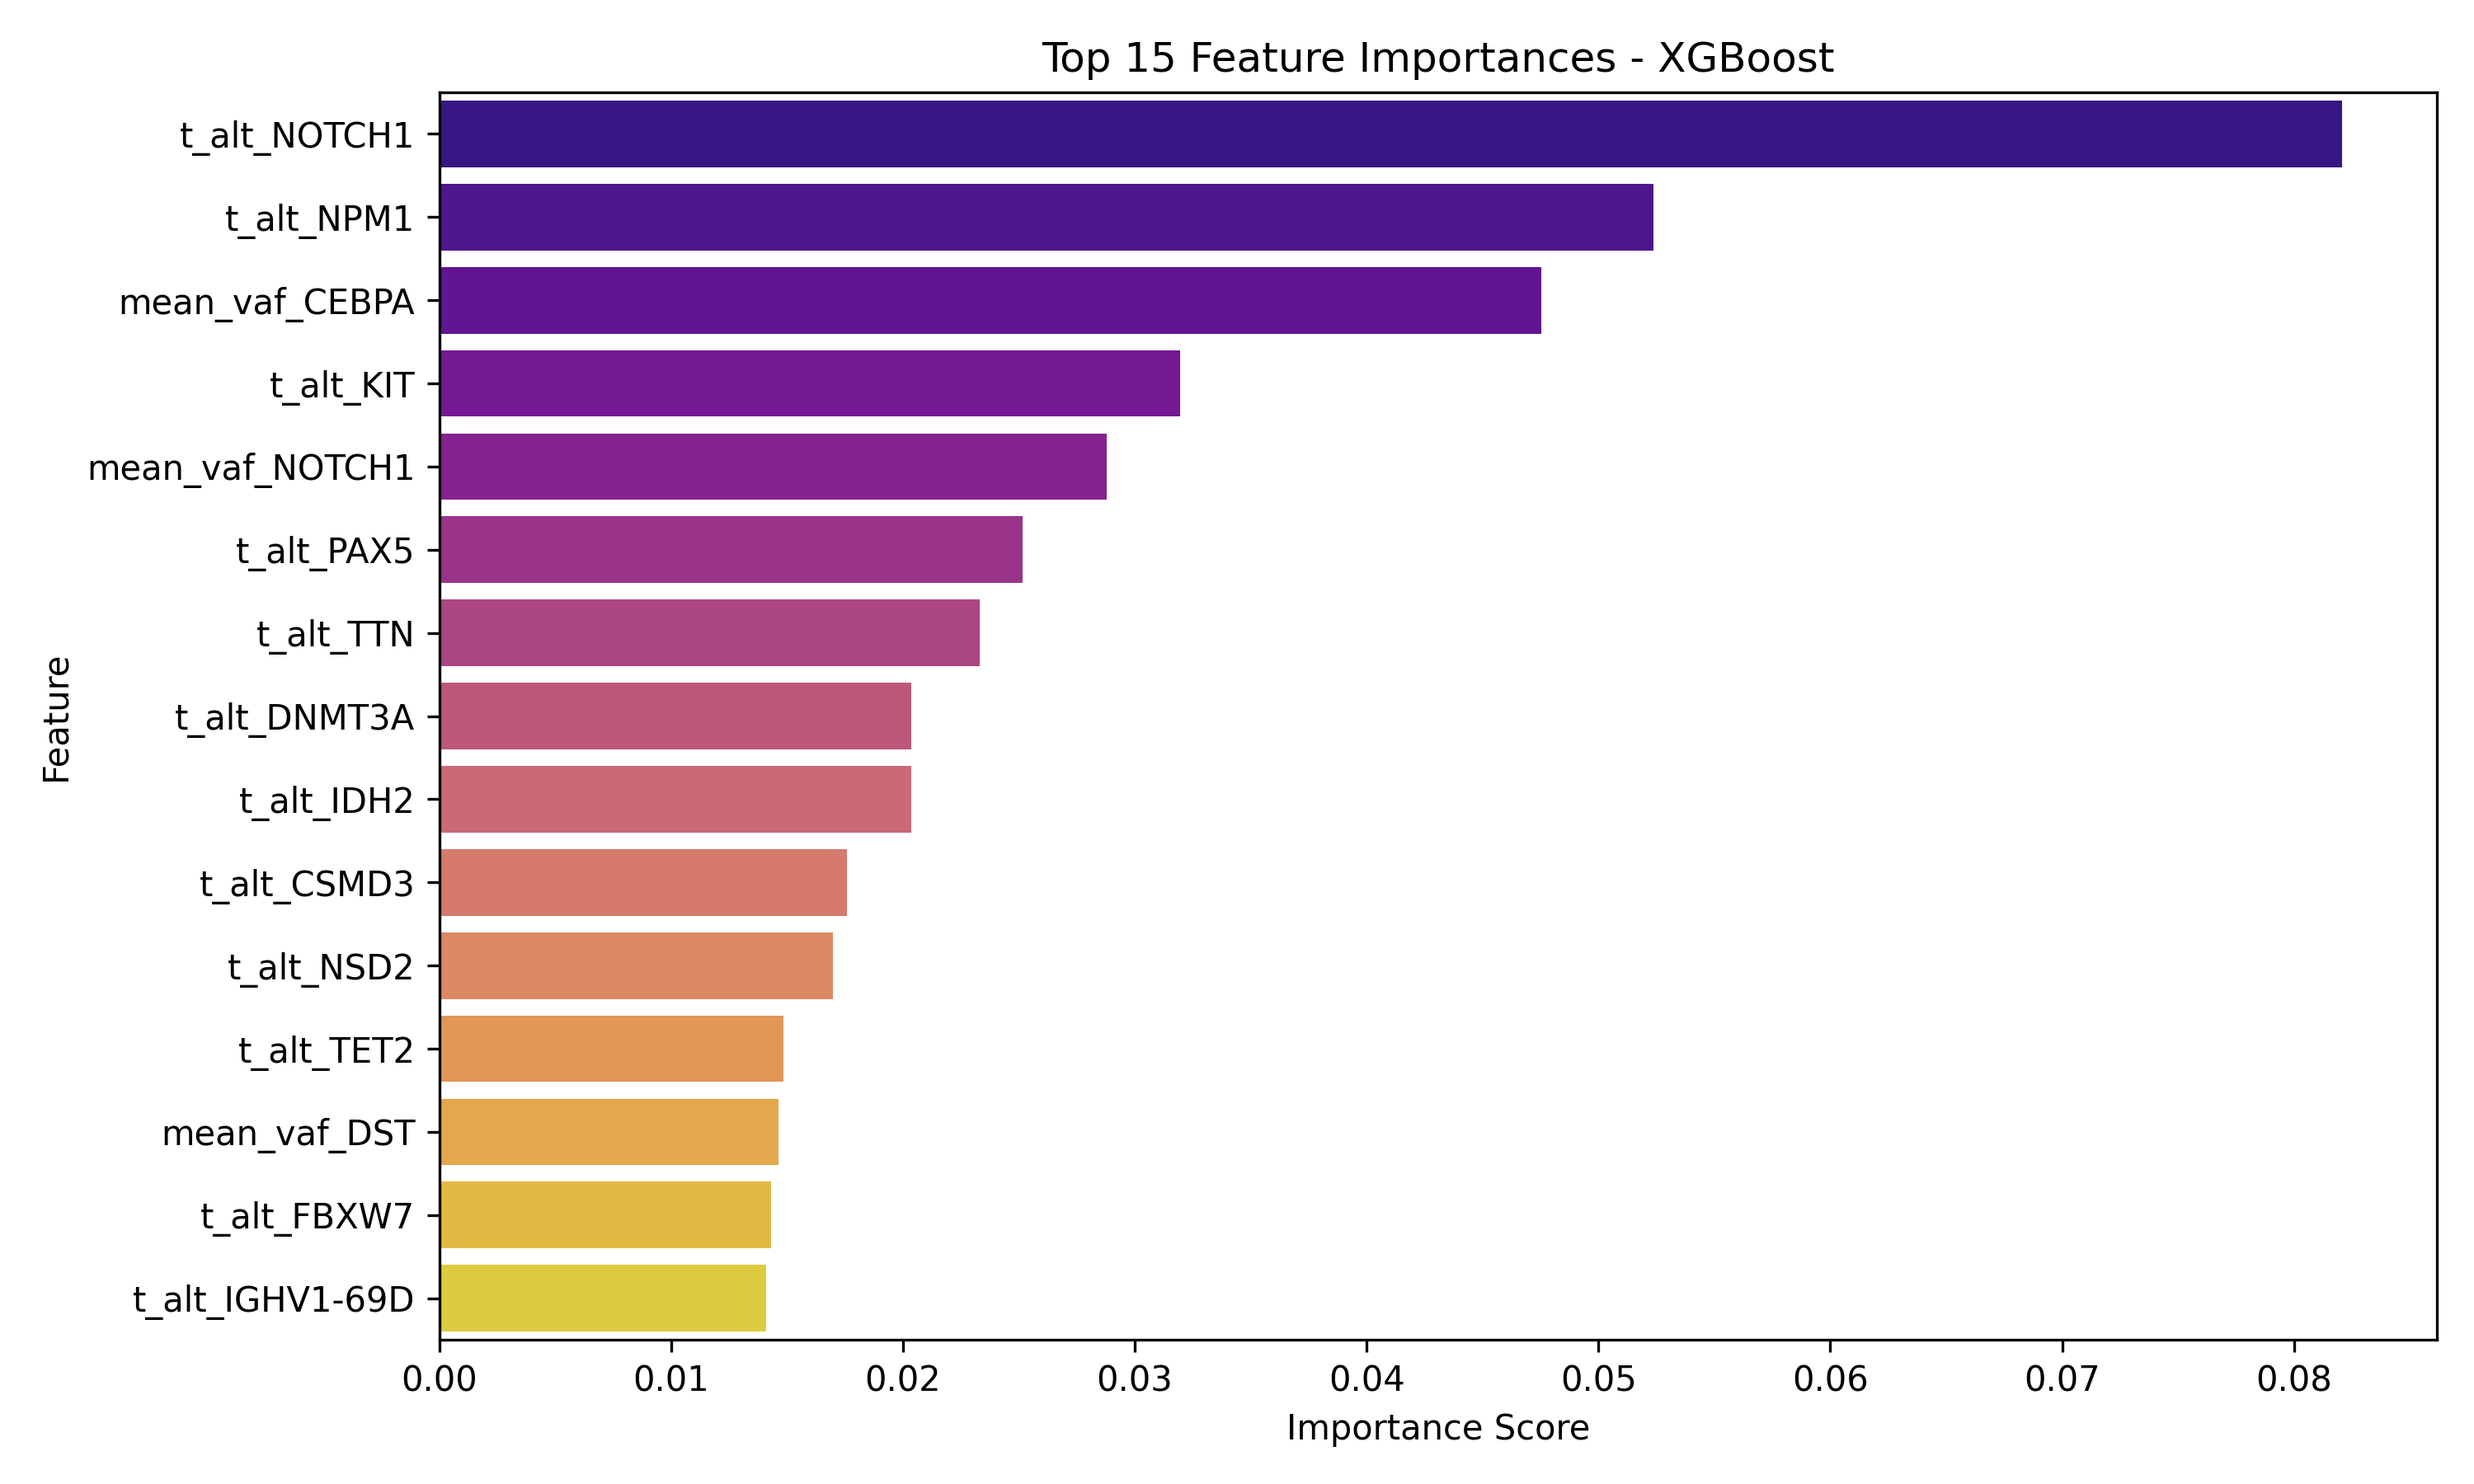
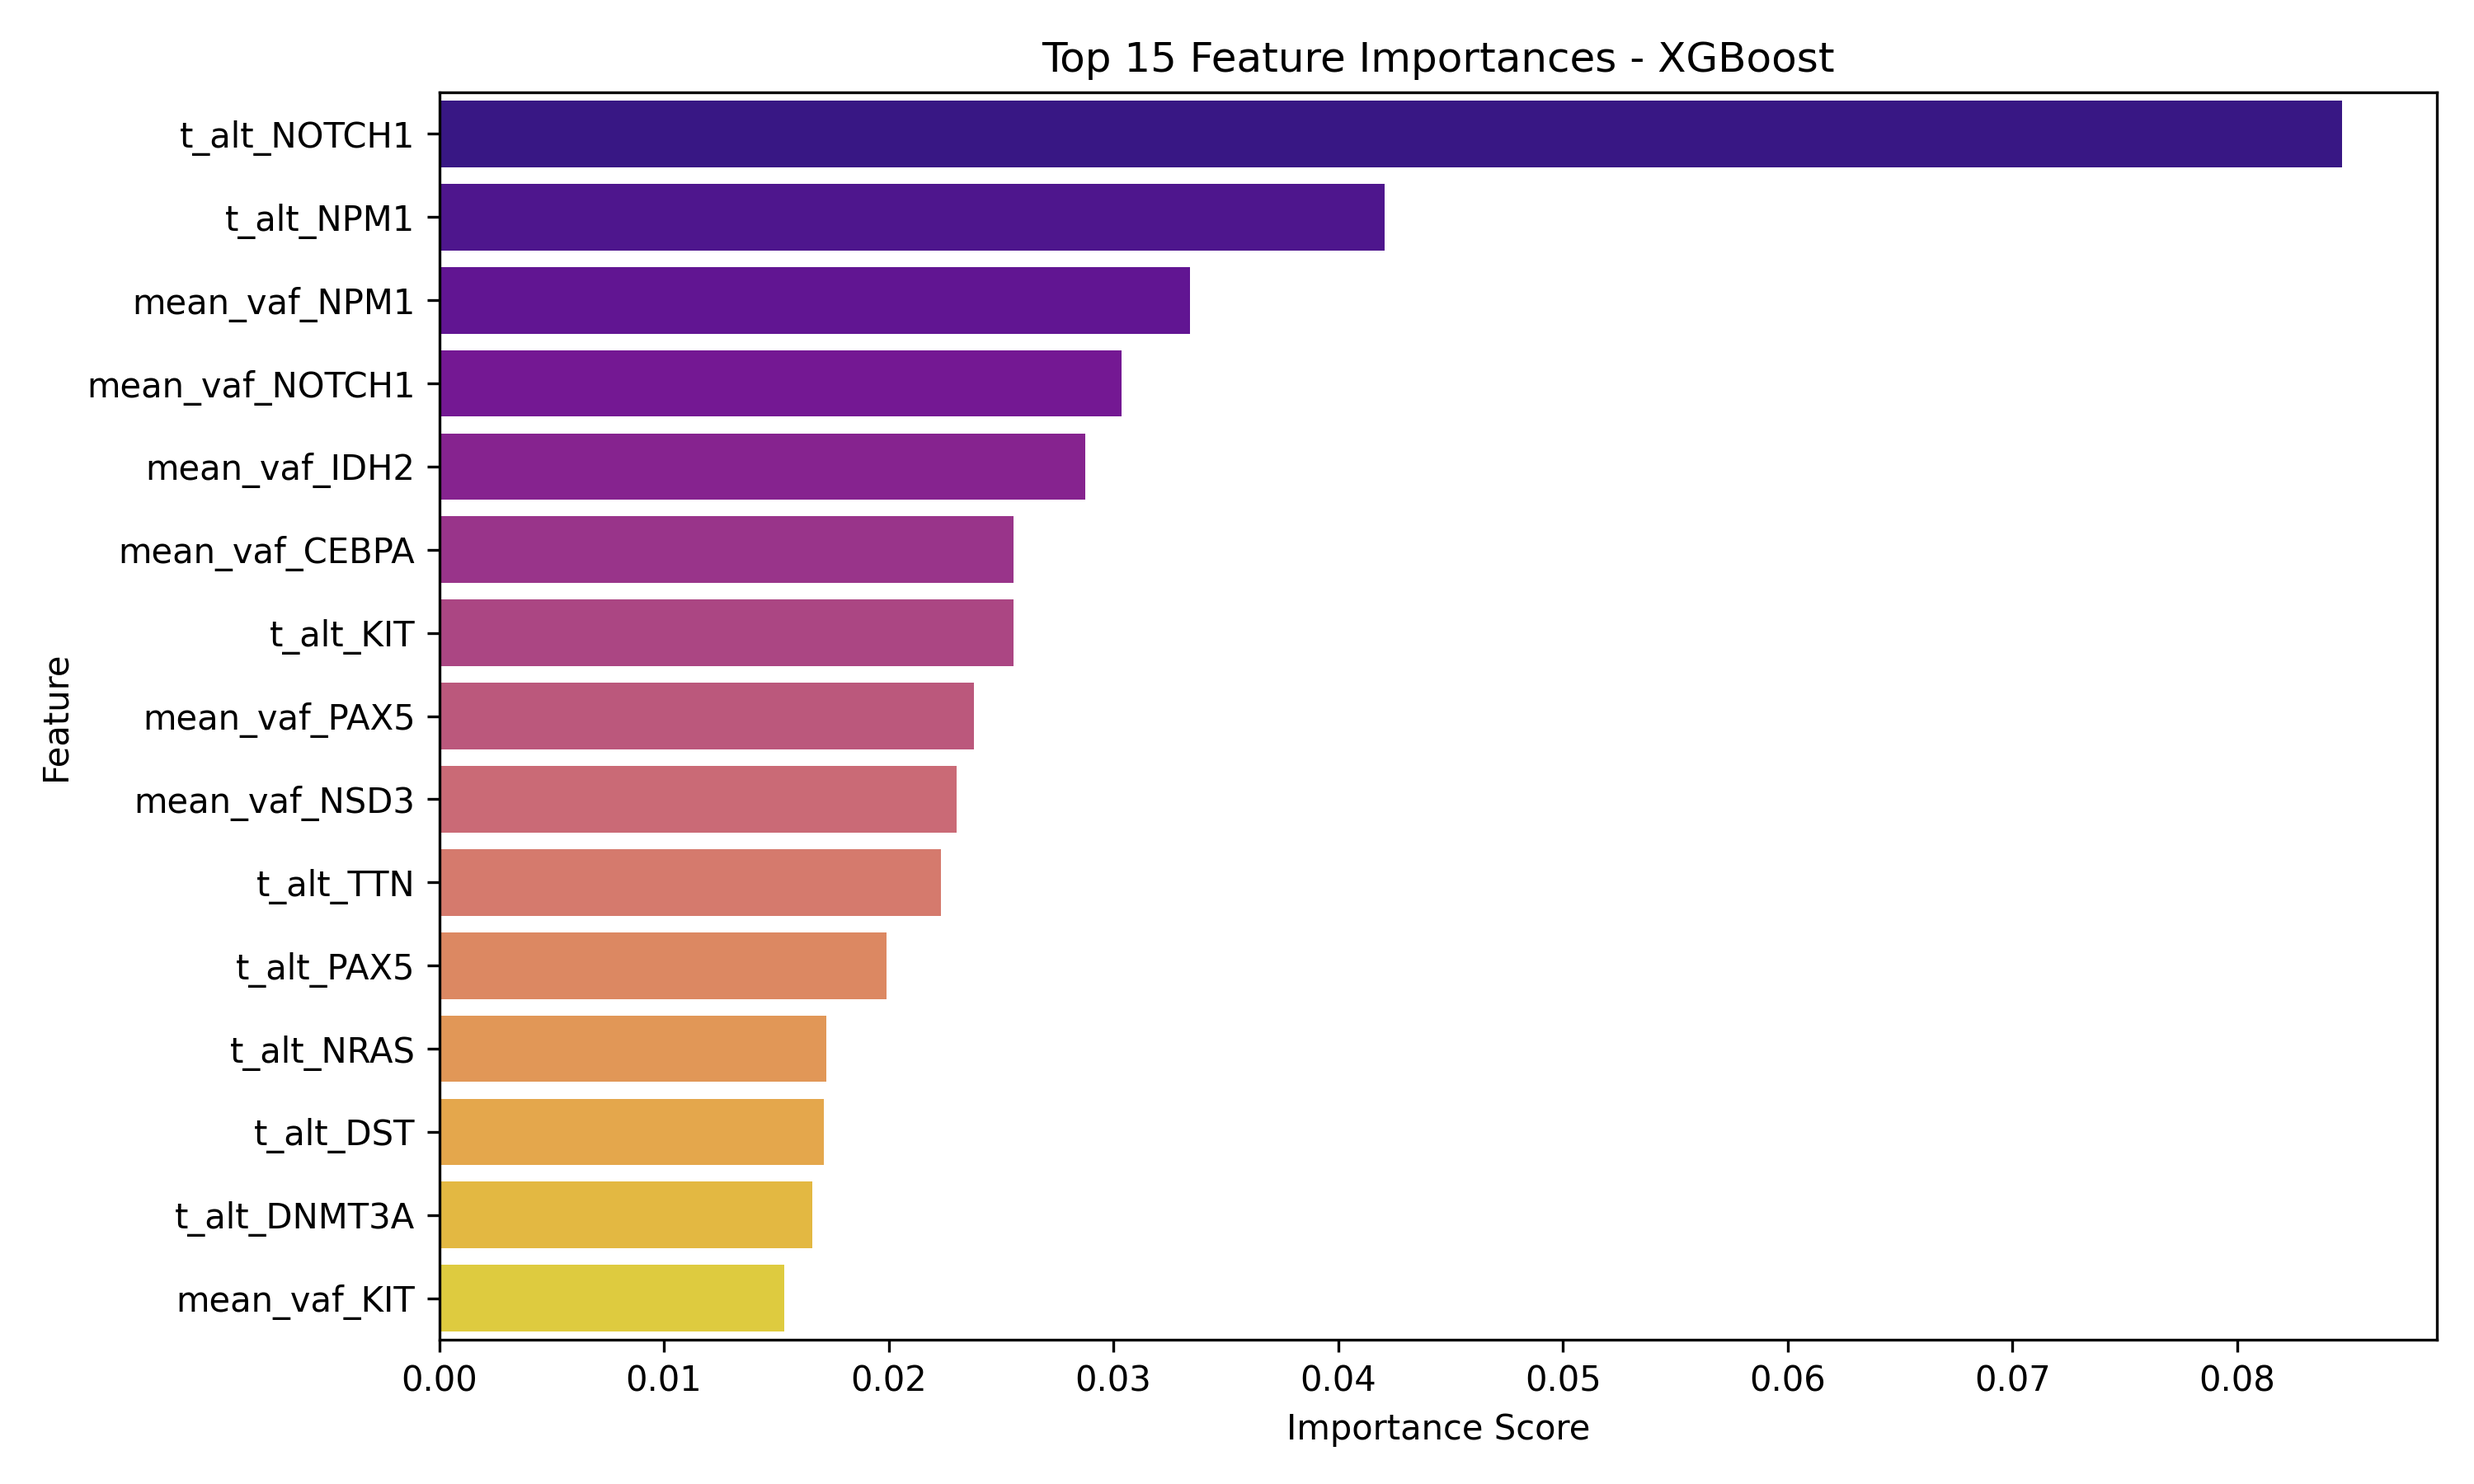
feat: Implement XGBoost model training and evaluation

diff --git a/Capstone/final_model.py b/Capstone/final_model.py
@@ -1,0 +1,163 @@
+import pandas as pd
+import numpy as np
+import matplotlib.pyplot as plt
+import seaborn as sns
+import os
+
+from xgboost import XGBClassifier
+from sklearn.model_selection import train_test_split, GridSearchCV
+from sklearn.metrics import classification_report, accuracy_score, ConfusionMatrixDisplay, roc_curve, roc_auc_score
+from sklearn.model_selection import cross_val_score, StratifiedKFold
+
+
+from preprocess import load_mutation_data, load_disease_data
+from skopt import BayesSearchCV
+
+
+def load_and_prepare_data(mutation_data, disease_data):
+    mutation_data['disease_name'] = mutation_data['case'].map(disease_data.set_index('case_id')['tumor_code'])
+    mutation_data = mutation_data.dropna(subset=['disease_name'])
+    mutation_data = mutation_data.drop(columns=['case'])
+
+    X = mutation_data.drop(columns=["disease_name"])
+    X.dropna(axis=1, inplace=True)
+    X = X.drop("worst_class_overall", axis=1, errors='ignore')
+
+    y = mutation_data['disease_name'].astype('category')
+    y_encoded = y.cat.codes
+    class_labels = y.cat.categories.tolist()
+    return X, y_encoded, class_labels
+
+
+def train_model(X, y, k=25, use_bayesian=False):
+    X_train, X_test, y_train, y_test = train_test_split(
+        X, y, test_size=0.3, random_state=42, stratify=y
+    )
+    param_grid = {
+        'n_estimators': [100, 200],
+        'max_depth': [3, 5],
+        'learning_rate': [0.01, 0.1],
+        'subsample': [0.8, 1.0],
+        'colsample_bytree': [0.8, 1.0],
+        'min_child_weight': [1, 5],
+        'gamma': [0, 0.2],
+        'reg_alpha': [0, 0.1],
+        'reg_lambda': [1, 2]
+    }
+    xgb = XGBClassifier(eval_metric='mlogloss', random_state=42)
+    if use_bayesian:
+        search_spaces = {
+            'n_estimators': (100, 200),
+            'max_depth': (3, 5),
+            'learning_rate': (0.01, 0.1, 'log-uniform'),
+            'subsample': (0.8, 1.0),
+            'colsample_bytree': (0.8, 1.0),
+            'min_child_weight': (1, 5),
+            'gamma': (0, 0.2),
+            'reg_alpha': (0, 0.1),
+            'reg_lambda': (1, 2)
+        }
+        search = BayesSearchCV(xgb, search_spaces, cv=3, n_jobs=-1, scoring='accuracy', verbose=1, n_iter=20, random_state=42)
+        search.fit(X_train, y_train)
+        best_model = search.best_estimator_
+        grid_search = search
+    else:
+        grid_search = GridSearchCV(xgb, param_grid, cv=3, n_jobs=-1, scoring='accuracy', verbose=1)
+        grid_search.fit(X_train, y_train)
+        best_model = grid_search.best_estimator_
+
+    return {
+        "model": best_model,
+        "X_test_selected": X_test,
+        "y_test": y_test,
+        "selected_feature_names": X_train.columns,
+        "selector": None,
+        "X_train_selected": X_train,
+        "y_train": y_train,
+        "grid_search": grid_search
+    }
+
+
+def print_metrics(model, X_test_selected, y_test, grid_search, return_dict=False):
+    y_pred = model.predict(X_test_selected)
+    acc = accuracy_score(y_test, y_pred)
+    report = classification_report(y_test, y_pred, output_dict=True)
+    print("Accuracy:", acc)
+    print("\nClassification Report:\n", classification_report(y_test, y_pred))
+    if return_dict:
+        return {
+            'accuracy': acc,
+            'precision': report['weighted avg']['precision'],
+            'recall': report['weighted avg']['recall'],
+            'f1': report['weighted avg']['f1-score']
+        }
+
+
+def plot_confusion_matrix(model, X_test_selected, y_test, class_labels, outdir="visualizations"):
+    if not os.path.exists(outdir):
+        os.makedirs(outdir)
+    plt.figure(figsize=(6, 5))
+    ConfusionMatrixDisplay.from_estimator(
+        model, X_test_selected, y_test,
+        display_labels=class_labels,
+        cmap='Blues'
+    )
+    plt.title("Confusion Matrix - XGBoost")
+    plt.savefig(f"{outdir}/xgb_confusion_matrix.png", dpi=300, bbox_inches='tight')
+    plt.close()
+
+
+def plot_feature_importance(model, feature_names, outdir="visualizations", top_n=15):
+    if not os.path.exists(outdir):
+        os.makedirs(outdir)
+    importances = model.feature_importances_
+    feat_imp = pd.Series(importances, index=feature_names).sort_values(ascending=False)
+    print("\nTop features:")
+    print(feat_imp.head(10))
+    plt.figure(figsize=(10, 6))
+    sns.barplot(x=feat_imp.head(top_n).values, y=feat_imp.head(top_n).index, palette='plasma')
+    plt.title(f"Top {top_n} Feature Importances - XGBoost")
+    plt.xlabel("Importance Score")
+    plt.ylabel("Feature")
+    plt.tight_layout()
+    plt.savefig(f"{outdir}/xgb_feature_importance.png", dpi=300)
+    plt.close()
+
+
+def plot_roc_curve(model, X_test_selected, y_test, class_labels, outdir="visualizations"):
+    if not os.path.exists(outdir):
+        os.makedirs(outdir)
+    if len(class_labels) == 2:
+        y_prob = model.predict_proba(X_test_selected)[:, 1]
+        fpr, tpr, _ = roc_curve(y_test, y_prob)
+        auc_score = roc_auc_score(y_test, y_prob)
+        plt.figure(figsize=(8, 6))
+        plt.plot(fpr, tpr, label=f"ROC Curve (AUC = {auc_score:.2f})", color='darkorange')
+        plt.plot([0, 1], [0, 1], linestyle='--', color='gray')
+        plt.title("ROC Curve - XGBoost")
+        plt.xlabel("False Positive Rate")
+        plt.ylabel("True Positive Rate")
+        plt.legend()
+        plt.grid(alpha=0.3)
+        plt.savefig(f"{outdir}/xgb_roc_curve.png", dpi=300)
+        plt.close()
+
+
+def cross_validate_model(model, X, y, k=5):
+    cv = StratifiedKFold(n_splits=k, shuffle=True, random_state=42)
+    scores = cross_val_score(model, X, y, cv=cv, scoring='accuracy', n_jobs=-1)
+    print(f"\n{k}-Fold Cross-Validation Accuracy Scores: {scores}")
+    print(f"Mean Accuracy: {scores.mean():.4f} (+/- {scores.std():.4f})")
+    return scores
+
+
+if __name__ == "__main__":
+    X, y, class_labels = load_and_prepare_data(load_mutation_data(), load_disease_data())
+    model_info = train_model(X, y, use_bayesian=True)
+
+    print("Best parameters from GridSearchCV:", model_info["grid_search"].best_params_)
+    print_metrics(model_info["model"], model_info["X_test_selected"], model_info["y_test"], model_info["grid_search"])
+    plot_confusion_matrix(model_info["model"], model_info["X_test_selected"], model_info["y_test"], class_labels)
+    plot_feature_importance(model_info["model"], model_info["selected_feature_names"])
+    plot_roc_curve(model_info["model"], model_info["X_test_selected"], model_info["y_test"], class_labels)
+    cross_validate_model(model_info["model"], X, y, k=5)
